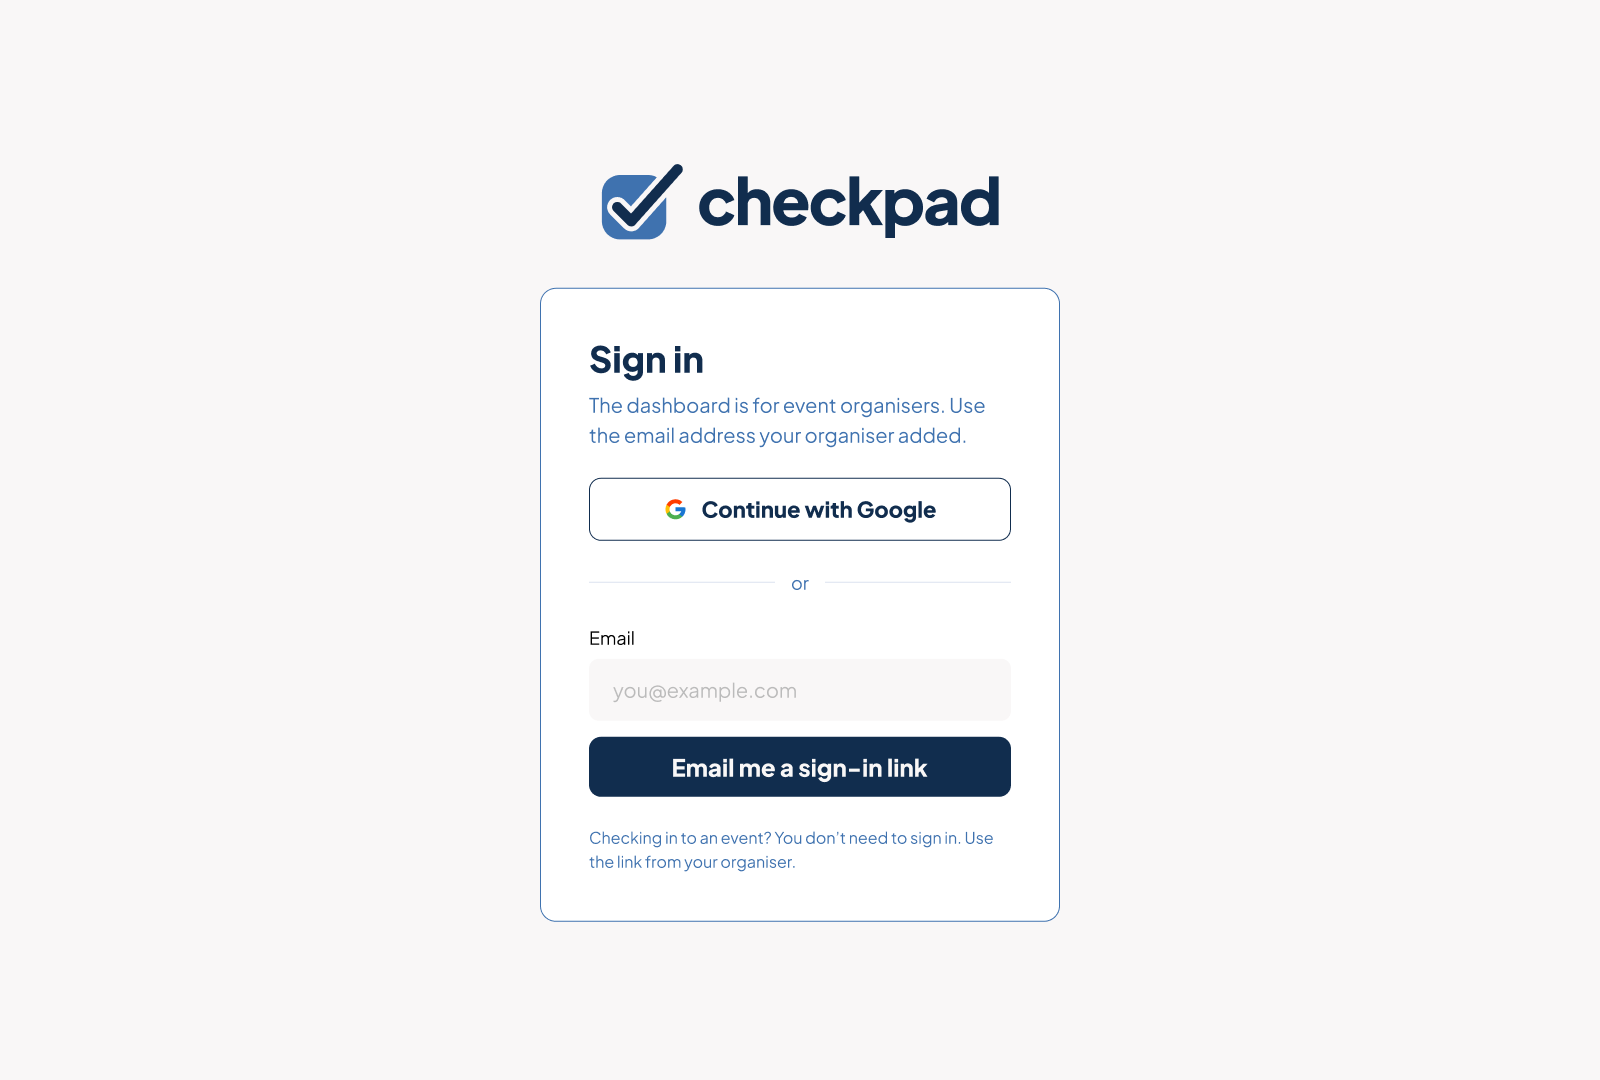
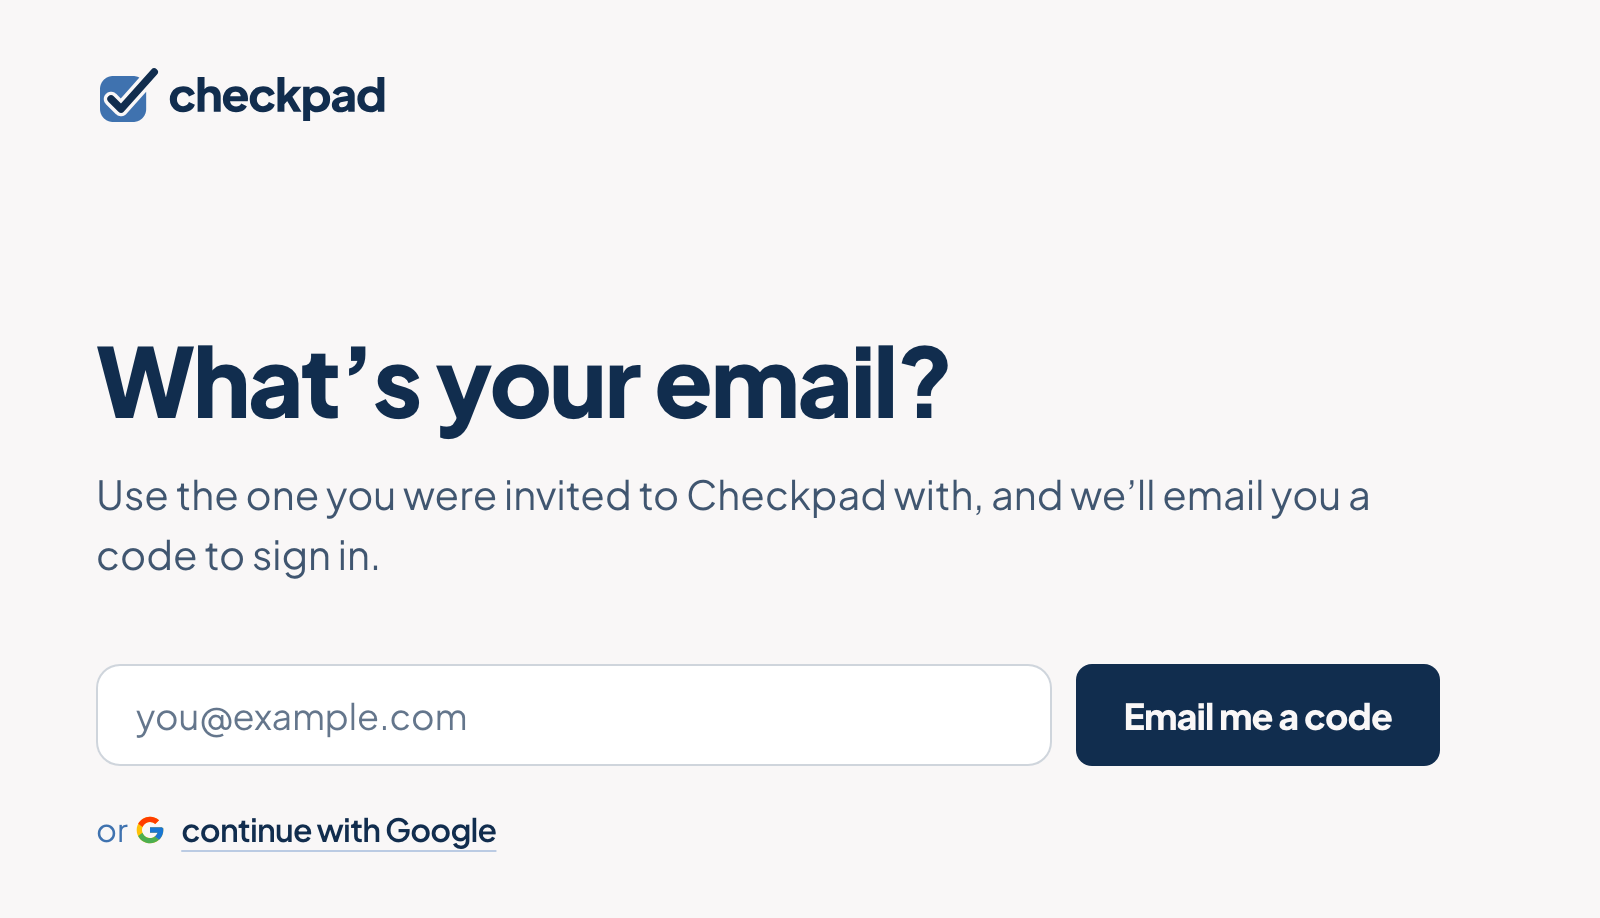
Explain sign-in codes in the docs

diff --git a/apps/web/src/lib/docs.ts b/apps/web/src/lib/docs.ts
@@ -22,7 +22,7 @@ const sections: { id: string; title: string; body: Block[] }[] = [
 		title: 'Getting started',
 		body: [
 			'Checkpad isn’t open to new organisers yet. Join the waitlist on the home page and we’ll email you when you can set up your first event.',
-			'If someone already on Checkpad adds you as an organiser, you’ll get an invite by email. Sign in to the dashboard with Google or with a link we email you, using the address the invite went to.',
+			'If someone already on Checkpad adds you as an organiser, you’ll get an invite by email. Sign in to the dashboard with Google or with a code we email you, using the address the invite went to.',
 			{ tip: 'If you were invited to start a new team, the dashboard asks you to name it and say where it meets the first time you sign in. New events start in that place’s time zone.' },
 		],
 	},
@@ -34,19 +34,20 @@ const sections: { id: string; title: string; body: Block[] }[] = [
 			{
 				list: [
 					'Continue with Google, if that address is a Google account.',
-					'An email link: enter the address and we’ll email you a link that signs you in. It works once, expires after an hour, and has to be opened on the device and browser you asked from.',
+					'An emailed code: enter the address and we’ll email you a 6-digit code. Type it on the sign-in page, on any device; it works once, for 10 minutes. The same email has a link too, which signs you in when you open it on the device and browser you asked from, within an hour.',
 				],
 			},
 			'If something stops you:',
 			{
 				list: [
 					'“You don’t have access yet”: the address you signed in with isn’t on the organiser list. Choose Use another account, or ask a super admin to add that address.',
-					'“This sign-in link has expired”: it was used already, is more than an hour old, or was opened on another device. Send yourself a new one from that page.',
-					'No email after a few minutes: check your spam folder, then send the link again. If it still doesn’t come, the address probably isn’t the one you were invited with.',
-					'“This email signs in with an email link”: you’ve used email links with this address before, so Google sign-in won’t take it. Use an email link.',
+					'“That code isn’t right, or it’s expired”: check you’re using the code from the newest email (asking again replaces the last code), and that it’s less than 10 minutes old. After five wrong tries a code stops working; send a new one.',
+					'“This link has expired”: it was used already, is more than an hour old, or was opened on another device. Send yourself a new email from that page and use its code instead.',
+					'No email after a few minutes: check your spam folder, then send it again. If it still doesn’t come, the address probably isn’t the one you were invited with.',
+					'“This email signs in with an emailed code”: you’ve signed in by email with this address before, so Google sign-in won’t take it. Use an emailed code.',
 				],
 			},
-			{ tip: 'Sign-in emails come from noreply@checkpad.app and their link starts with https://manage.checkpad.app/. Don’t use a link that goes anywhere else.' },
+			{ tip: 'Sign-in emails come from noreply@checkpad.app and their link starts with https://manage.checkpad.app/. Don’t use a link that goes anywhere else, and only type the code on manage.checkpad.app. Nobody from Checkpad will ask you for it.' },
 		],
 	},
 	{
@@ -222,7 +223,7 @@ const sections: { id: string; title: string; body: Block[] }[] = [
 // A screenshot for each page, shown after its first paragraph. They're exported from the
 // "Website screenshots" section of the Checkpad Figma file (Screens page), named docs-*.png there.
 const images: Record<string, { src: ImageMetadata; alt: string }> = {
-	'getting-started': { src: signIn, alt: 'The dashboard’s sign-in page, with Continue with Google and an email sign-in link' },
+	'getting-started': { src: signIn, alt: 'The dashboard’s sign-in page, asking “What’s your email?”, with Email me a code and continue with Google' },
 	'teams-and-roles': { src: organisers, alt: 'The Organisers page listing people with their roles and teams' },
 	'create-an-event': { src: newEvent, alt: 'The New event page with Details, When, Teams and Walk-ins' },
 	'import-attendees': { src: importAttendees, alt: 'The Import attendees dialog showing new, updated and skipped rows before importing' },
@@ -238,7 +239,7 @@ export const GROUPS = ['Set up', 'On the night', 'Afterwards', 'Help'] as const;
 /** Each page's group, its title where the old section's doesn't fit a page of its own, and a line for the index. */
 const meta: Record<string, { group: (typeof GROUPS)[number]; title?: string; slug?: string; description: string }> = {
 	'getting-started': { group: 'Set up', description: 'How to get onto Checkpad, and what happens the first time you sign in.' },
-	'signing-in': { group: 'Set up', description: 'Google or an email link, and what to do when sign-in stops you.' },
+	'signing-in': { group: 'Set up', description: 'Google or an emailed code, and what to do when sign-in stops you.' },
 	'teams-and-roles': { group: 'Set up', description: 'Organisers, team members and super admins, and your team’s permanent link.' },
 	'create-an-event': { group: 'Set up', description: 'Name, link, date, teams and walk-in settings.' },
 	'import-attendees': { group: 'Set up', description: 'Bring in your attendee list from Bevy or Luma, and import again as people register.' },
